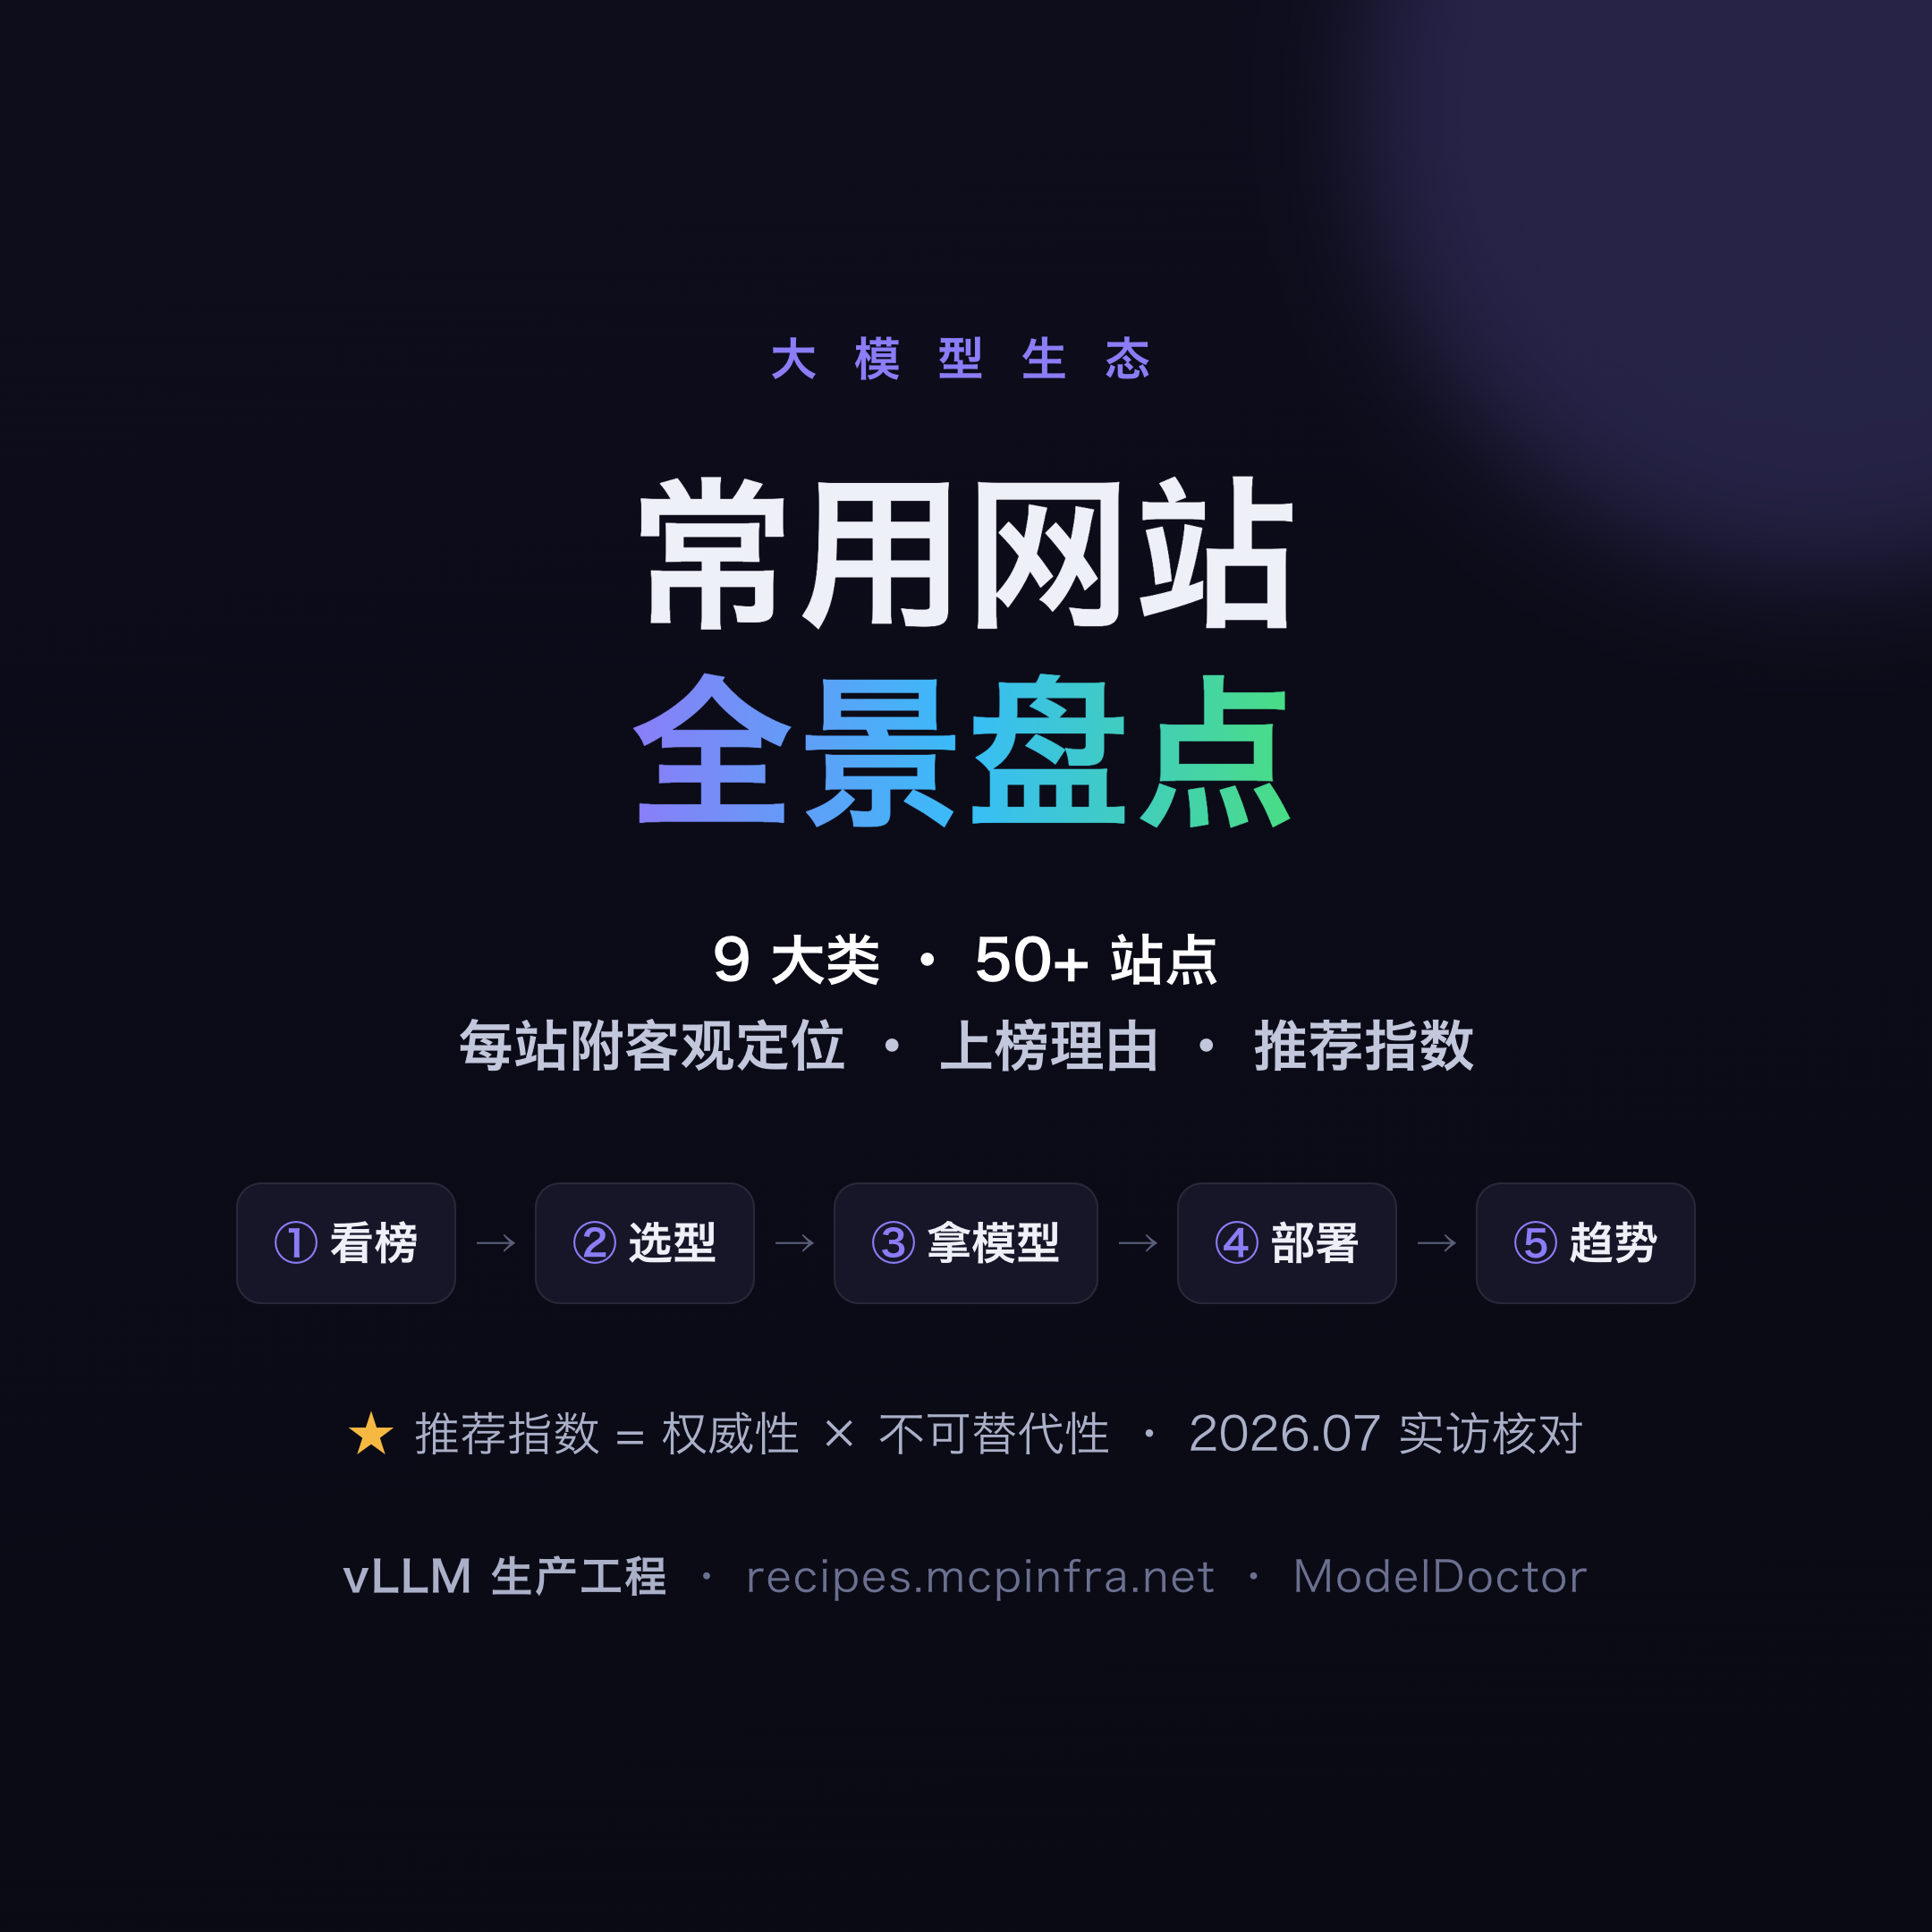
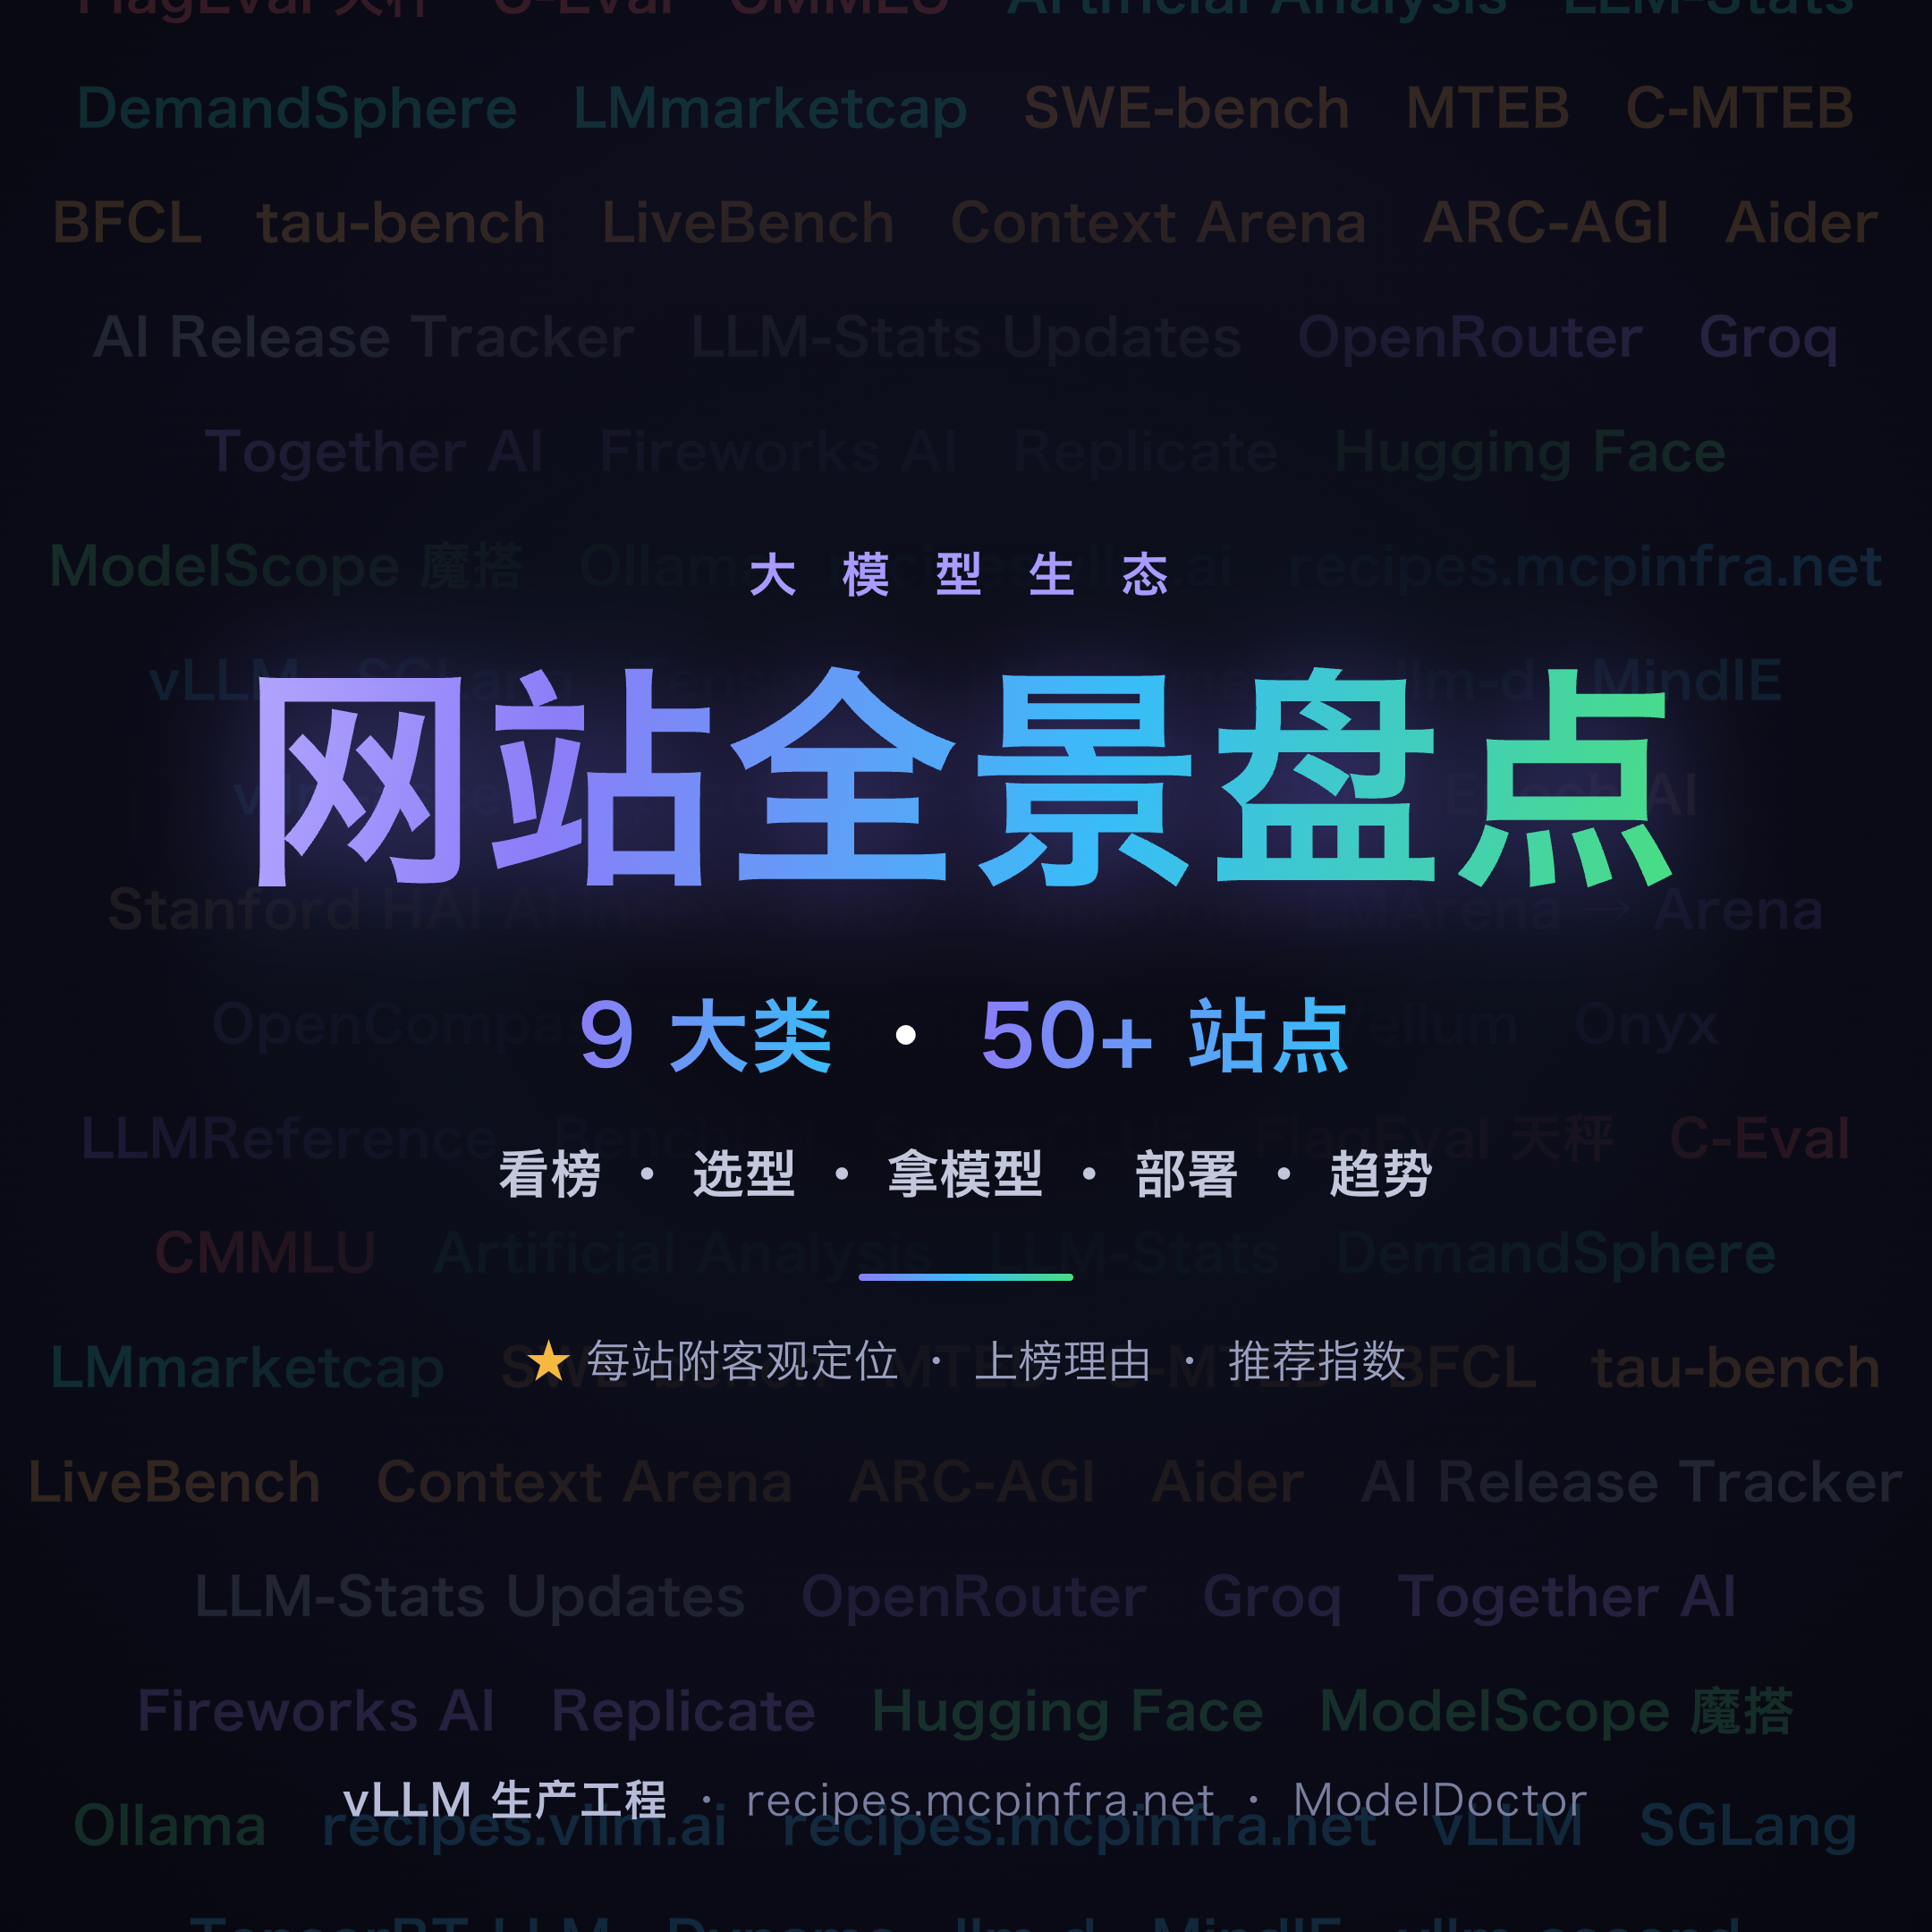
redesign(cover): 震撼版封面 — 50+ 站名星图铺底 + 中心强光 + 大渐变标题

diff --git a/content/2026-07-llm-sites-map/cards.html b/content/2026-07-llm-sites-map/cards.html
@@ -29,23 +29,30 @@
   .card .note::before{ content:"⚠ "; color:#e0a03a; }
   .foot{ display:flex; justify-content:space-between; align-items:center; margin-top:34px; padding-top:24px; border-top:1px solid var(--line); font-size:21px; color:#6b7090; }
   .foot b{ color:#aab0c8; }
-  /* cover — 正方形 1080×1080,内容居中(贴图封面按中心方形裁剪) */
-  .cover{ width:1080px; height:1080px; padding:70px 74px; display:flex; flex-direction:column;
-          align-items:center; justify-content:center; text-align:center; }
-  .cover::before{ top:-200px; right:-200px; opacity:.20; }
-  .cover .kick{ font-size:26px; font-weight:800; letter-spacing:6px; color:#8b7df7; margin-bottom:34px; }
-  .cover .big{ font-size:92px; font-weight:900; line-height:1.2; letter-spacing:2px; }
-  .cover .big .g{ background:linear-gradient(90deg,#8b7df7,#38bdf8,#4ade80); -webkit-background-clip:text; background-clip:text; color:transparent; }
-  .cover .csub{ font-size:31px; color:#c2c7dc; margin-top:38px; line-height:1.55; font-weight:600; }
-  .cover .csub b{ color:#fff; }
-  .cover .chain{ display:flex; flex-wrap:nowrap; gap:10px; margin:52px 0; justify-content:center; }
-  .cover .chain .step{ font-size:25px; font-weight:700; color:#eef0f8; background:#161628; border:1px solid var(--line); border-radius:14px; padding:14px 20px; white-space:nowrap; }
-  .cover .chain .step .n{ color:#8b7df7; margin-right:6px; }
-  .cover .chain .arw{ align-self:center; color:#5a5f7a; font-size:24px; }
-  .cover .coverlegend{ font-size:26px; color:#aab0c8; line-height:1.6; }
-  .cover .coverlegend .s{ color:#f5b942; letter-spacing:2px; }
-  .cover .brandline{ margin-top:40px; font-size:24px; color:#6b7090; letter-spacing:1px; }
-  .cover .brandline b{ color:#aab0c8; }
+  /* cover — 正方形 1080×1080,站名星图背景 + 中心强光 + 大标题 */
+  .cover{ width:1080px; height:1080px; position:relative; overflow:hidden;
+          background:radial-gradient(circle at 50% 44%, #191933 0%, #0c0c1a 58%, #07070f 100%); padding:0; }
+  .cover::before{ display:none; }
+  .cons{ position:absolute; inset:-30px; display:flex; flex-wrap:wrap; align-content:center; justify-content:center; gap:20px 30px; padding:44px; }
+  .cons span{ font-size:29px; font-weight:800; letter-spacing:.5px; white-space:nowrap; opacity:.17; }
+  .scrim{ position:absolute; inset:0; background:radial-gradient(ellipse 66% 50% at 50% 47%, rgba(9,9,18,.94) 26%, rgba(9,9,18,.72) 52%, rgba(9,9,18,0) 82%); }
+  .glow{ position:absolute; left:50%; top:47%; width:900px; height:640px; transform:translate(-50%,-50%);
+         background:radial-gradient(ellipse at center, rgba(124,110,247,.36), rgba(56,189,248,.16) 45%, transparent 70%); filter:blur(24px); }
+  .center{ position:absolute; inset:0; display:flex; flex-direction:column; align-items:center; justify-content:center; text-align:center; padding:64px; }
+  .center .kick{ font-size:27px; font-weight:800; letter-spacing:8px; color:#a99bff; margin-bottom:26px; }
+  .center .big{ font-size:132px; font-weight:900; line-height:1.04; letter-spacing:3px;
+                background:linear-gradient(100deg,#b3a6ff 0%,#8b7df7 22%,#38bdf8 60%,#4ade80 100%);
+                -webkit-background-clip:text; background-clip:text; color:transparent;
+                filter:drop-shadow(0 6px 30px rgba(124,110,247,.5)); }
+  .center .stat{ margin-top:40px; font-size:46px; font-weight:900; color:#fff; letter-spacing:1px; }
+  .center .stat b{ background:linear-gradient(90deg,#8b7df7,#38bdf8); -webkit-background-clip:text; background-clip:text; color:transparent; }
+  .center .csub{ margin-top:20px; font-size:29px; color:#c2c7dc; font-weight:600; letter-spacing:.5px; }
+  .center .divider{ width:120px; height:4px; border-radius:3px; margin:34px 0 26px;
+                    background:linear-gradient(90deg,#8b7df7,#38bdf8,#4ade80); }
+  .center .legend2{ font-size:25px; color:#9aa0c0; }
+  .center .legend2 .s{ color:#f5b942; }
+  .center .brandline{ position:absolute; bottom:56px; font-size:24px; color:#7a7fa0; letter-spacing:1px; }
+  .center .brandline b{ color:#b6bbd8; }
 </style></head>
 <body><div id="app"></div>
 <script>
@@ -136,19 +143,27 @@ function cardHTML(it){
     ${opt.note?`<div class="note">${opt.note}</div>`:''}
   </div>`;
 }
-let html = `<div class="slide cover" style="--acc:#8b7df7">
-  <div class="kick">大 模 型 生 态</div>
-  <div class="big">常用网站<br><span class="g">全景盘点</span></div>
-  <div class="csub"><b>9 大类 · 50+ 站点</b><br>每站附客观定位 · 上榜理由 · 推荐指数</div>
-  <div class="chain">
-    <div class="step"><span class="n">①</span>看榜</div><div class="arw">→</div>
-    <div class="step"><span class="n">②</span>选型</div><div class="arw">→</div>
-    <div class="step"><span class="n">③</span>拿模型</div><div class="arw">→</div>
-    <div class="step"><span class="n">④</span>部署</div><div class="arw">→</div>
-    <div class="step"><span class="n">⑤</span>趋势</div>
+// 站名星图:拆分所有站点名(去重),按类主题色低透明度铺底
+const NAMES=[];
+CATS.forEach(c=>c.items.forEach(it=>{
+  it[0].split(/\s·\s|\s\/\s|·|\//).map(s=>s.trim()).filter(s=>s && s.length<=22).forEach(n=>NAMES.push([n,c.acc]));
+}));
+const seen=new Set(); const uniq=NAMES.filter(([n])=>{ if(seen.has(n))return false; seen.add(n); return true; });
+const tiled=[...uniq,...uniq].map(([n,c],i)=>`<span style="color:${c}">${n}</span>`).join('');
+
+let html = `<div class="slide cover">
+  <div class="cons">${tiled}</div>
+  <div class="glow"></div>
+  <div class="scrim"></div>
+  <div class="center">
+    <div class="kick">大 模 型 生 态</div>
+    <div class="big">网站全景盘点</div>
+    <div class="stat"><b>9 大类</b> · <b>50+ 站点</b></div>
+    <div class="csub">看榜 · 选型 · 拿模型 · 部署 · 趋势</div>
+    <div class="divider"></div>
+    <div class="legend2"><span class="s">★</span> 每站附客观定位 · 上榜理由 · 推荐指数</div>
+    <div class="brandline"><b>vLLM 生产工程</b> · recipes.mcpinfra.net · ModelDoctor</div>
   </div>
-  <div class="coverlegend"><span class="s">★</span> 推荐指数 = 权威性 × 不可替代性 · 2026.07 实访核对</div>
-  <div class="brandline"><b>vLLM 生产工程</b> · recipes.mcpinfra.net · ModelDoctor</div>
 </div>`;
 
 for(const c of CATS){